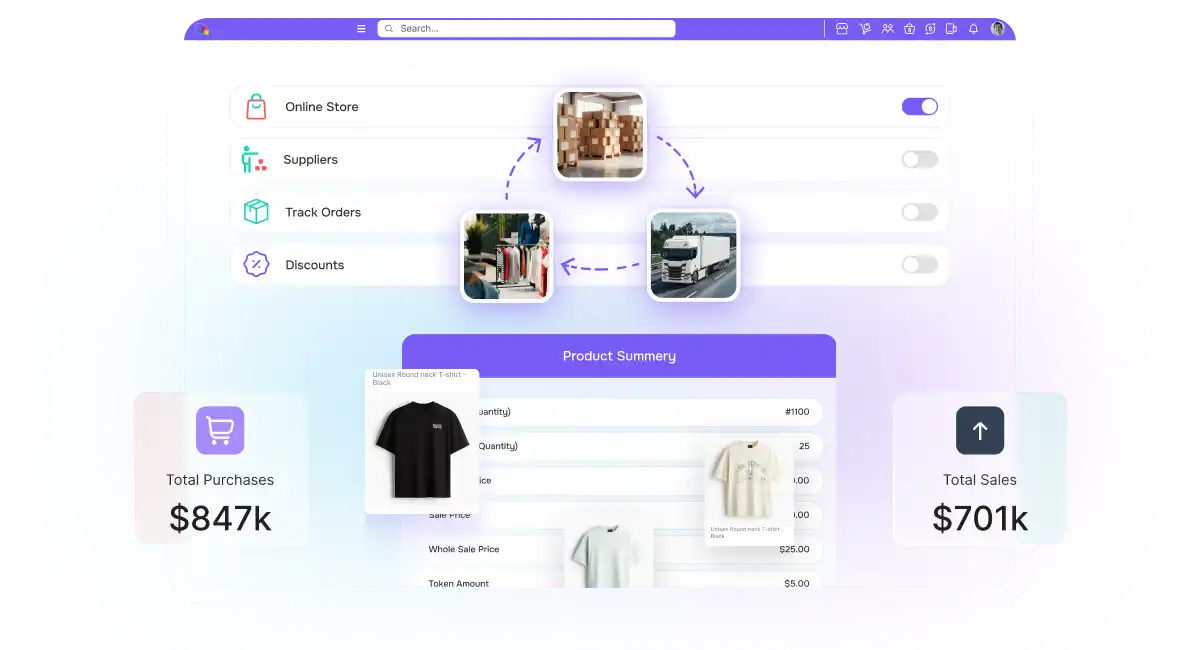
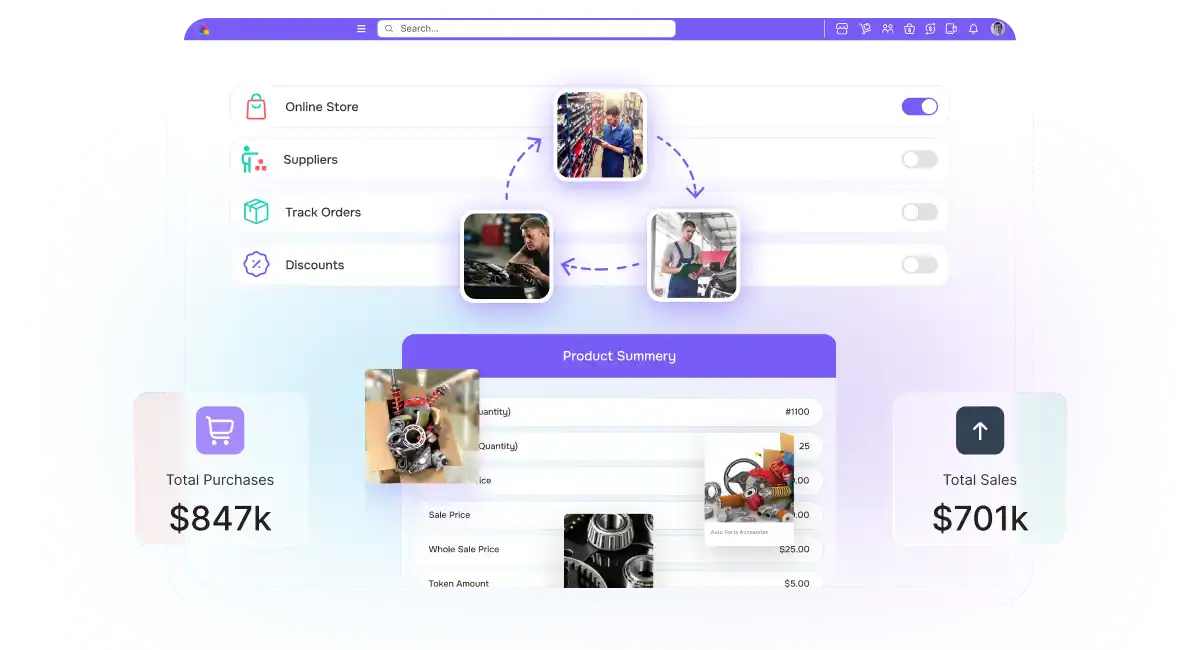
bugs fixing

diff --git a/src/components/common-components/HeroSection2.tsx b/src/components/common-components/HeroSection2.tsx
@@ -287,7 +287,6 @@ const HeroSection2: React.FC<HeroSection2Props> = ({
                         alt="Pricing Image"
                         width={33}
                         height={33}
-                        priority
                         className="xl:w-[33px] xl:h-[33px] lg:w-6 lg:h-6 md:w-[18px] md:h-[18px] w-[13px] h-[13px]"
                       />
                       <p className="text-[10px] leading-4 md:text-[12px] md:leading-[19px] lg:text-[22px] lg:leading-[38px] font-medium font-inter text-[var(--text-light)]">
@@ -304,7 +303,6 @@ const HeroSection2: React.FC<HeroSection2Props> = ({
                         alt="Pricing Image"
                         width={33}
                         height={33}
-                        priority
                         className="xl:w-[33px] xl:h-[33px] lg:w-6 lg:h-6 md:w-[18px] md:h-[18px] w-[13px] h-[13px]"
                       />
                       <p className="text-[10px] leading-4 md:text-[12px] md:leading-[19px] lg:text-[22px] lg:leading-[38px] font-medium font-inter text-[var(--text-light)]">
@@ -321,7 +319,6 @@ const HeroSection2: React.FC<HeroSection2Props> = ({
                         alt="Pricing Image"
                         width={33}
                         height={33}
-                        priority
                         className="xl:w-[33px] xl:h-[33px] lg:w-6 lg:h-6 md:w-[18px] md:h-[18px] w-[13px] h-[13px]"
                       />
                       <p className="text-[10px] leading-4 md:text-[12px] md:leading-[19px] lg:text-[22px] lg:leading-[38px] font-medium font-inter text-[var(--text-light)]">
@@ -337,7 +334,6 @@ const HeroSection2: React.FC<HeroSection2Props> = ({
                         alt="Pricing Image"
                         width={33}
                         height={33}
-                        priority
                         className="xl:w-[33px] xl:h-[33px] lg:w-6 lg:h-6 md:w-[18px] md:h-[18px] w-[13px] h-[13px]"
                       />
                       <p className="text-[10px] leading-4 md:text-[12px] md:leading-[19px] lg:text-[22px] lg:leading-[38px] font-medium font-inter text-[var(--text-light)]">
@@ -360,7 +356,6 @@ const HeroSection2: React.FC<HeroSection2Props> = ({
                     ref={fastServiceImageRef}
                     width={51}
                     height={64}
-                    priority
                     className="w-[51px] h-16 hidden lg:block absolute top-[110px] left-[30px] 2xl:top-[50px] 2xl:left-[60px]"
                   />
                   <div
@@ -377,7 +372,6 @@ const HeroSection2: React.FC<HeroSection2Props> = ({
                     ref={safeSecureImageRef}
                     width={100}
                     height={118}
-                    priority
                     className="2xl:w-[100px] hidden lg:block 2xl:h-[118px] w-20 h-[90px] absolute bottom-[85px] right-0 xl:bottom-[300px] 2xl:bottom-[250px] 2xl:right-[60px]"
                   />
 
@@ -387,7 +381,6 @@ const HeroSection2: React.FC<HeroSection2Props> = ({
                     ref={inventoryBlurIconRef}
                     width={120}
                     height={120}
-                    priority
                     className="2xl:w-[120px] lg:w-[90px] lg:h-[90px] md:w-[63px] md:h-[63px] w-[46px] h-[46px] 2xl:h-[120px] absolute top-2 -right-2.5 md:-top-2.5 2xl:-top-7 2xl:right-[200px] md:right-0"
                   />
 
@@ -397,7 +390,6 @@ const HeroSection2: React.FC<HeroSection2Props> = ({
                     ref={inventoryIconRef}
                     width={120}
                     height={120}
-                    priority
                     className="2xl:w-[120px] 2xl:h-[120px] lg:w-[90px] lg:h-[90px] md:w-[63px] md:h-[63px] w-[46px] h-[46px] absolute top-5  right-[-5px] md:top-2.5 md:right-5 lg:top-2.5 lg:right-5 2xl:top-0 2xl:right-[220px]"
                   />
 
@@ -413,7 +405,6 @@ const HeroSection2: React.FC<HeroSection2Props> = ({
                       alt="Total Growth Chart"
                       width={800}
                       height={600}
-                      priority
                       className="w-full "
                     />
                     <div>

diff --git a/src/components/pages/landing-page/TurningChaos.tsx b/src/components/pages/landing-page/TurningChaos.tsx
@@ -104,7 +104,7 @@ const TurningChaos: React.FC<TurningChaosProps> = ({
               opacity: 1,
               duration: 1,
               ease: "power3.out",
-            }
+            },
           );
         },
       });
@@ -123,10 +123,8 @@ const TurningChaos: React.FC<TurningChaosProps> = ({
       <div
         className={`relative  flex flex-col items-center justify-center w-full  pt-0 py-0 px-6 lg:px-[100px] overflow-hidden bg-[var(--background-halfwhite)] lg:rounded-bl-[40px] lg:rounded-br-[40px] rounded-bl-[24px] rounded-br-[24px] backdrop-blur-xl`}
         style={{
-          backgroundImage: `
-    linear-gradient(180deg, var(--white-color) 20%, transparent 100%),
-    linear-gradient(90deg, rgba(var(--primary-teal-rgb), 0.3) 30%, rgba(var(--primary-purple-rgb), 0.4) 60%, rgba(var(--primary-purple-rgb), 0.3) 100%)
-  `,
+          backgroundImage: `linear-gradient(180deg, var(--white-color) 20%, transparent 100%),
+          linear-gradient(90deg, rgba(var(--primary-teal-rgb), 0.3) 30%, rgba(var(--primary-purple-rgb), 0.4) 60%, rgba(var(--primary-purple-rgb), 0.3) 100%)`,
         }}
       >
         <div className="flex wrapper flex-col items-center justify-center w-full">
@@ -172,7 +170,6 @@ const TurningChaos: React.FC<TurningChaosProps> = ({
               alt="Chaos Into Clarity Dashboard"
               width={800}
               height={600}
-              loading="lazy"
               className="w-full h-auto"
             />
           </div>

diff --git a/src/components/pages/landing-page/VoicesRealBusiness.tsx b/src/components/pages/landing-page/VoicesRealBusiness.tsx
@@ -43,8 +43,7 @@ const VoicesRealBusiness = ({ title = "Voices of Real Businesses" }: VoicesRealB
           showPagination={false}
           slides={otherBrands}
           renderSlide={(brandItem) => (
-            <div className="relative z-10 bg-white py-4 lg:px-[68px] my-10 rounded-2xl 
-      border border-[var(--text-grey)]/40 flex justify-center items-center">
+            <div className="relative z-10 bg-white py-4 lg:px-[68px] my-10 rounded-2xl border border-[var(--text-grey)]/40 flex justify-center items-center">
               <Image
                 src={brandItem.logo}
                 alt={brandItem.name}
@@ -58,9 +57,7 @@ const VoicesRealBusiness = ({ title = "Voices of Real Businesses" }: VoicesRealB
                 width={158}
                 height={57}
                 alt="Yellow Stars"
-                loading="lazy"
-                className="absolute bottom-[-24px] lg:bottom-[-40px] -xl:bottom-10 left-1/2 -translate-x-1/2
-         w-full xl:max-w-[202px] lg:max-w-[180px] lg:py-2 max-w-[133px] lg:px-3 py-0 px-0 rounded-2xl"
+                className="absolute bottom-[-24px] lg:bottom-[-40px] -xl:bottom-10 left-1/2 -translate-x-1/2 w-full xl:max-w-[202px] lg:max-w-[180px] lg:py-2 max-w-[133px] lg:px-3 py-0 px-0 rounded-2xl"
               />
             </div>
           )}

diff --git a/src/components/pages/landing-page/CaseStudy.tsx b/src/components/pages/landing-page/CaseStudy.tsx
@@ -106,7 +106,6 @@ export default function CaseStudies({ caseStudies }: CaseStudiesProps) {
                 alt="arrow-right"
                 width={800}
                 height={600}
-                loading="lazy"
                 className="w-[20px] h-[20px]"
               />
             </button>
@@ -138,7 +137,6 @@ export default function CaseStudies({ caseStudies }: CaseStudiesProps) {
                 alt="arrow-right"
                 width={800}
                 height={600}
-                loading="lazy"
                 className="w-[20px] h-[20px]"
               />
             </button>
@@ -190,7 +188,6 @@ export default function CaseStudies({ caseStudies }: CaseStudiesProps) {
                       alt="arrow-right"
                       width={800}
                       height={600}
-                      loading="lazy"
                       className="w-9 h-[33px]"
                     />
                     <div className="flex flex-col gap-1">
@@ -214,7 +211,6 @@ export default function CaseStudies({ caseStudies }: CaseStudiesProps) {
                       alt="arrow-right"
                       width={800}
                       height={600}
-                      loading="lazy"
                       className="w-full h-full"
                     />
                   </div>
@@ -236,7 +232,6 @@ export default function CaseStudies({ caseStudies }: CaseStudiesProps) {
                     alt="arrow-right"
                     width={800}
                     height={600}
-                    loading="lazy"
                     className="w-5 h-5"
                   />
                 </button>
@@ -268,7 +263,6 @@ export default function CaseStudies({ caseStudies }: CaseStudiesProps) {
                     alt="arrow-right"
                     width={800}
                     height={600}
-                    loading="lazy"
                     className="w-5 h-5"
                   />
                 </button>

diff --git a/src/components/pages/landing-page/FAQSection.tsx b/src/components/pages/landing-page/FAQSection.tsx
@@ -114,7 +114,6 @@ export default function FaqSection({
                       width={18}
                       height={18}
                       className="w-4 h-4"
-                      loading="lazy"
                     />
                   </span>
 
@@ -131,7 +130,6 @@ export default function FaqSection({
                       width={18}
                       height={18}
                       className="w-[18px] h-[18px]"
-                      loading="lazy"
                     />
                   </span>
                 </button>

diff --git a/src/components/pages/landing-page/FeaturesTabSection.tsx b/src/components/pages/landing-page/FeaturesTabSection.tsx
@@ -26,7 +26,6 @@ export default function FeaturesTabSection() {
               width={800}
               height={600}
               className="w-full h-auto object-contain z-10 drop-shadow-2xl"
-              priority
             />
           </div>
 
@@ -64,7 +63,6 @@ export default function FeaturesTabSection() {
                     height={feature.iconHeight || 44}
                     className="w-6 h-6 sm:w-11 sm:h-11 object-contain"
                     alt={feature.title}
-                    loading="lazy"
                   />
                 </div>
                 <h3 className="font-['Onest'] text-[var(--white-color)] opacity-90 text-base sm:text-lg xl:text-xl font-medium leading-[150%] sm:leading-[167%] xl:leading-[172%] relative z-10">

diff --git a/src/components/pages/navbar/NavItems.tsx b/src/components/pages/navbar/NavItems.tsx
@@ -378,7 +378,7 @@ const NavItems = () => {
                             : "text-gray-600 bg-transparent border-transparent hover:text-[var(--primary-purple)]"
                         }`}
                       >
-                        Inventory System
+                        Inventory
                       </button>
                     </div>
                   </div>

diff --git a/src/components/common-components/TrustedBySection.tsx b/src/components/common-components/TrustedBySection.tsx
@@ -65,7 +65,6 @@ const TrustedBySection: React.FC<TrustedBySectionProps> = ({
                   width={200}
                   height={100}
                   className="w-full h-auto max-h-full  object-contain "
-                  priority
                 />
               </div>
             </div>

diff --git a/src/components/pages/landing-page/SmartTools.tsx b/src/components/pages/landing-page/SmartTools.tsx
@@ -90,7 +90,6 @@ const SmartTools: React.FC<SmartTools> = ({
               alt="Chaos Image"
               width={1065}
               height={600}
-              loading="lazy"
               className="w-full"
             />
           ) : isInView ? (